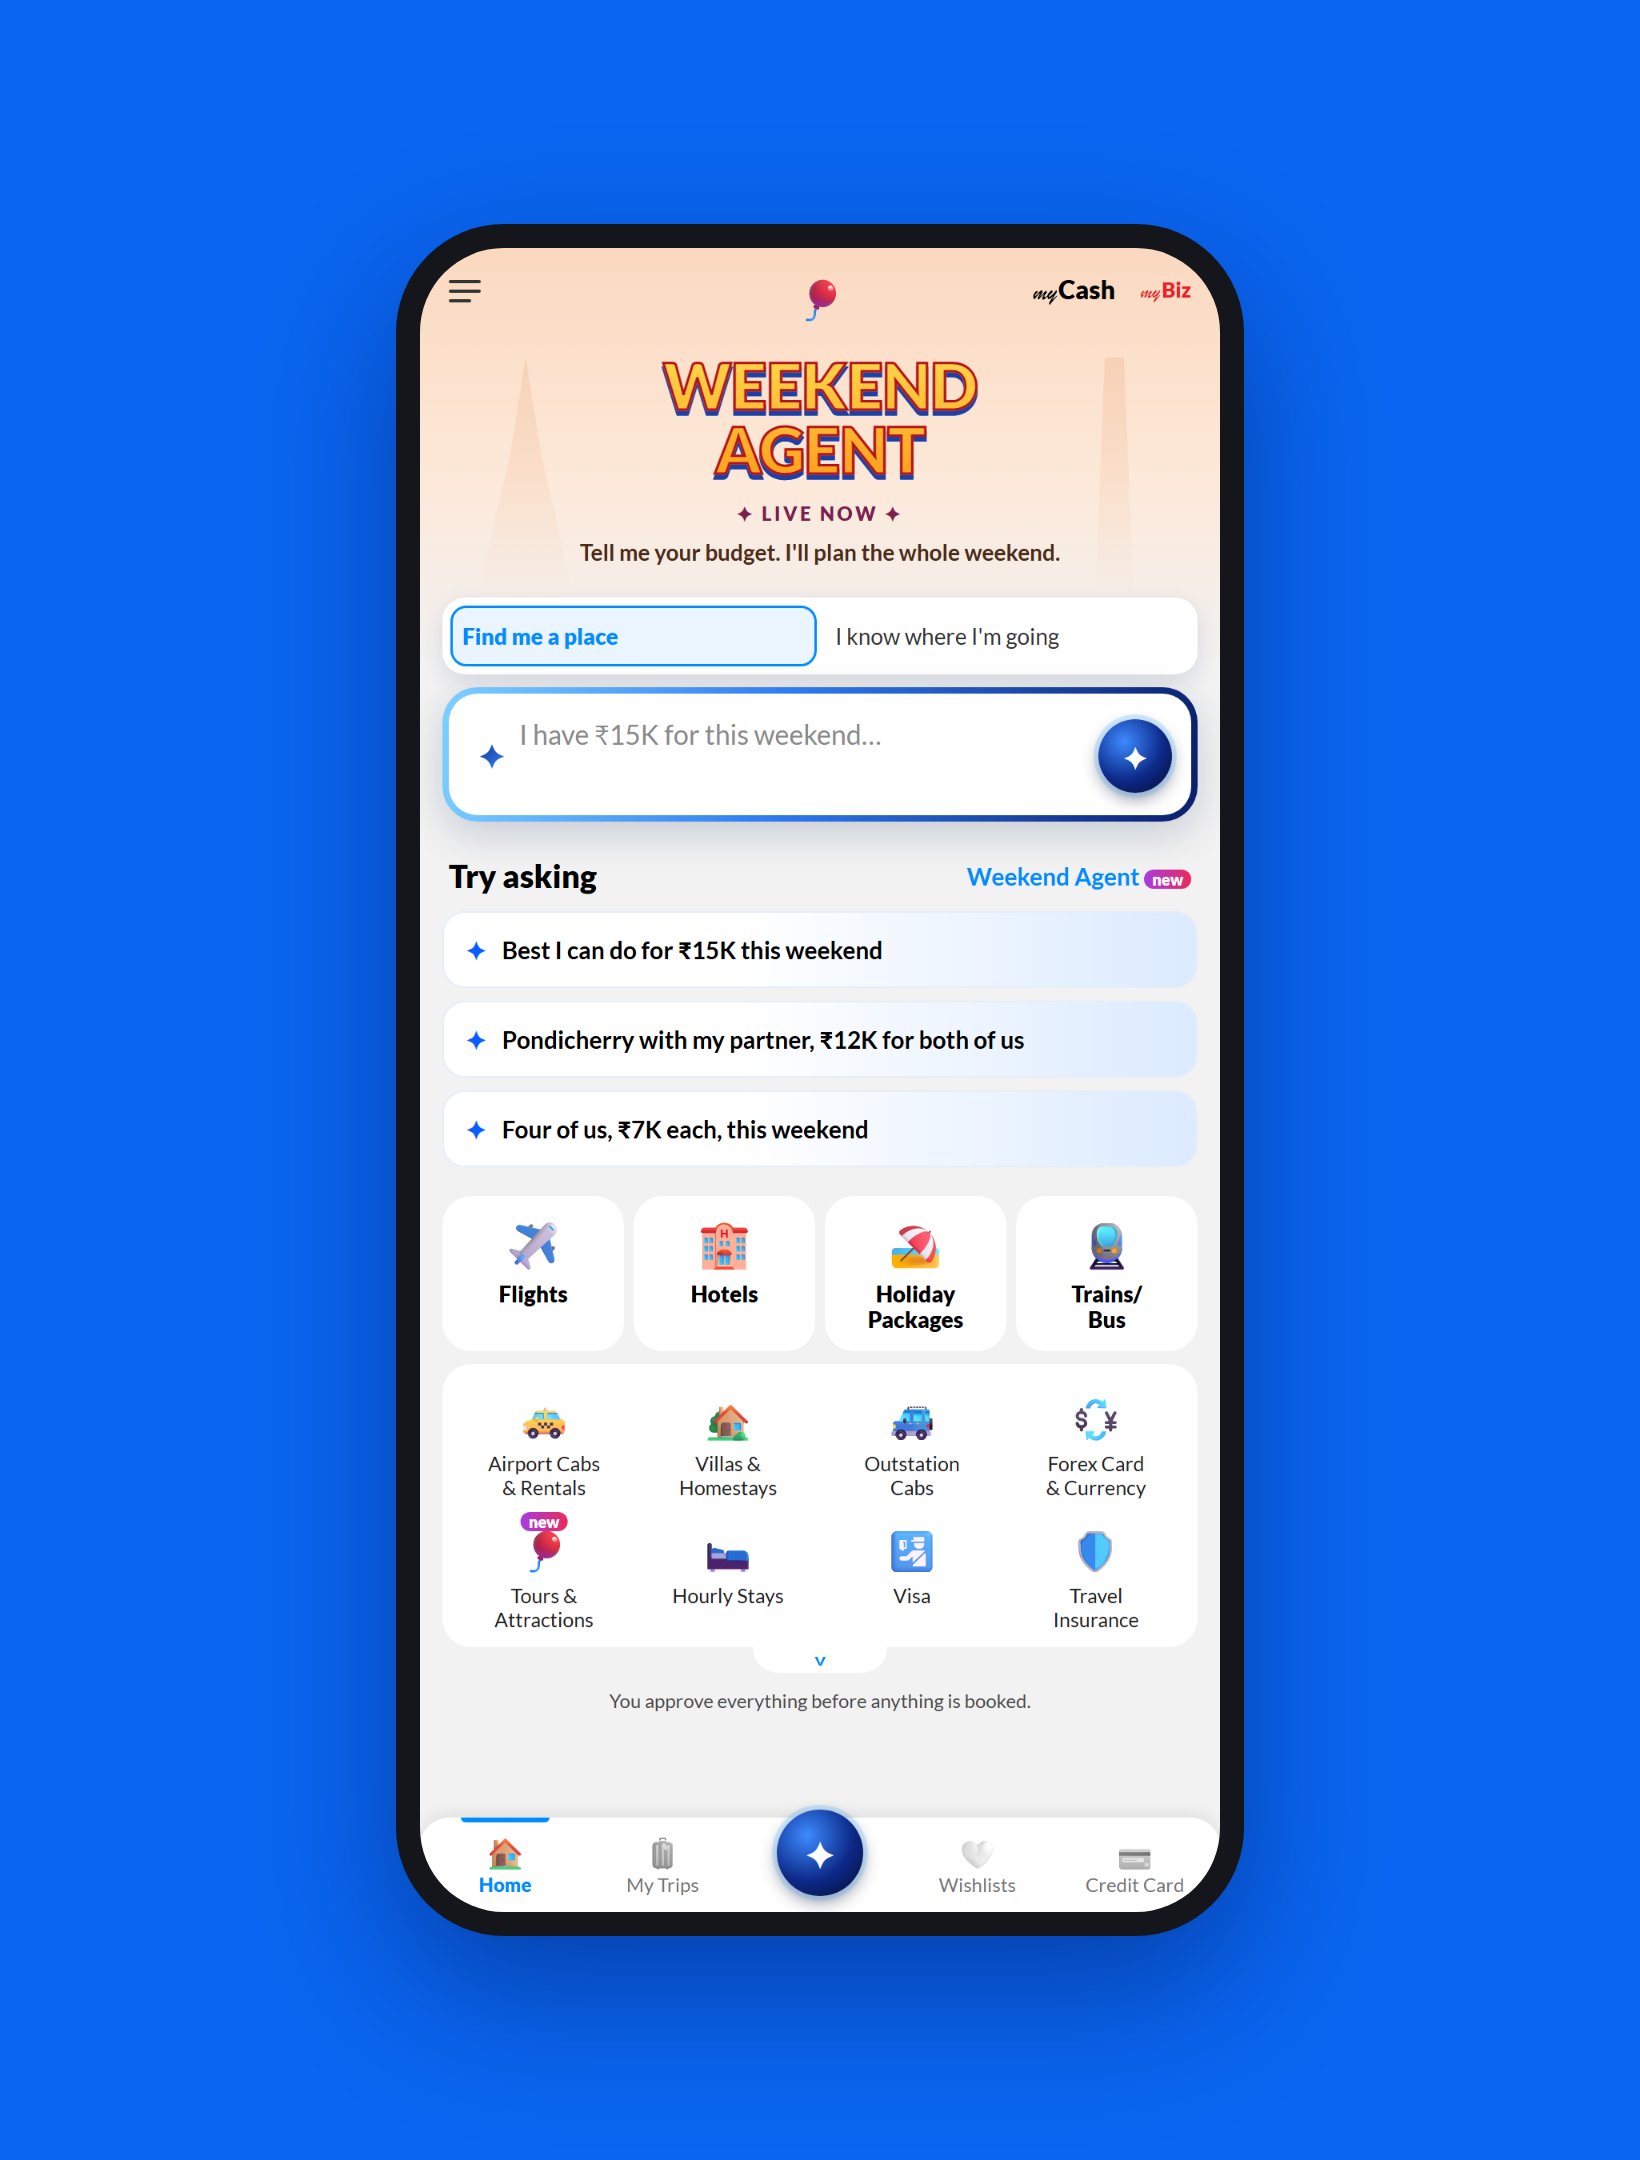
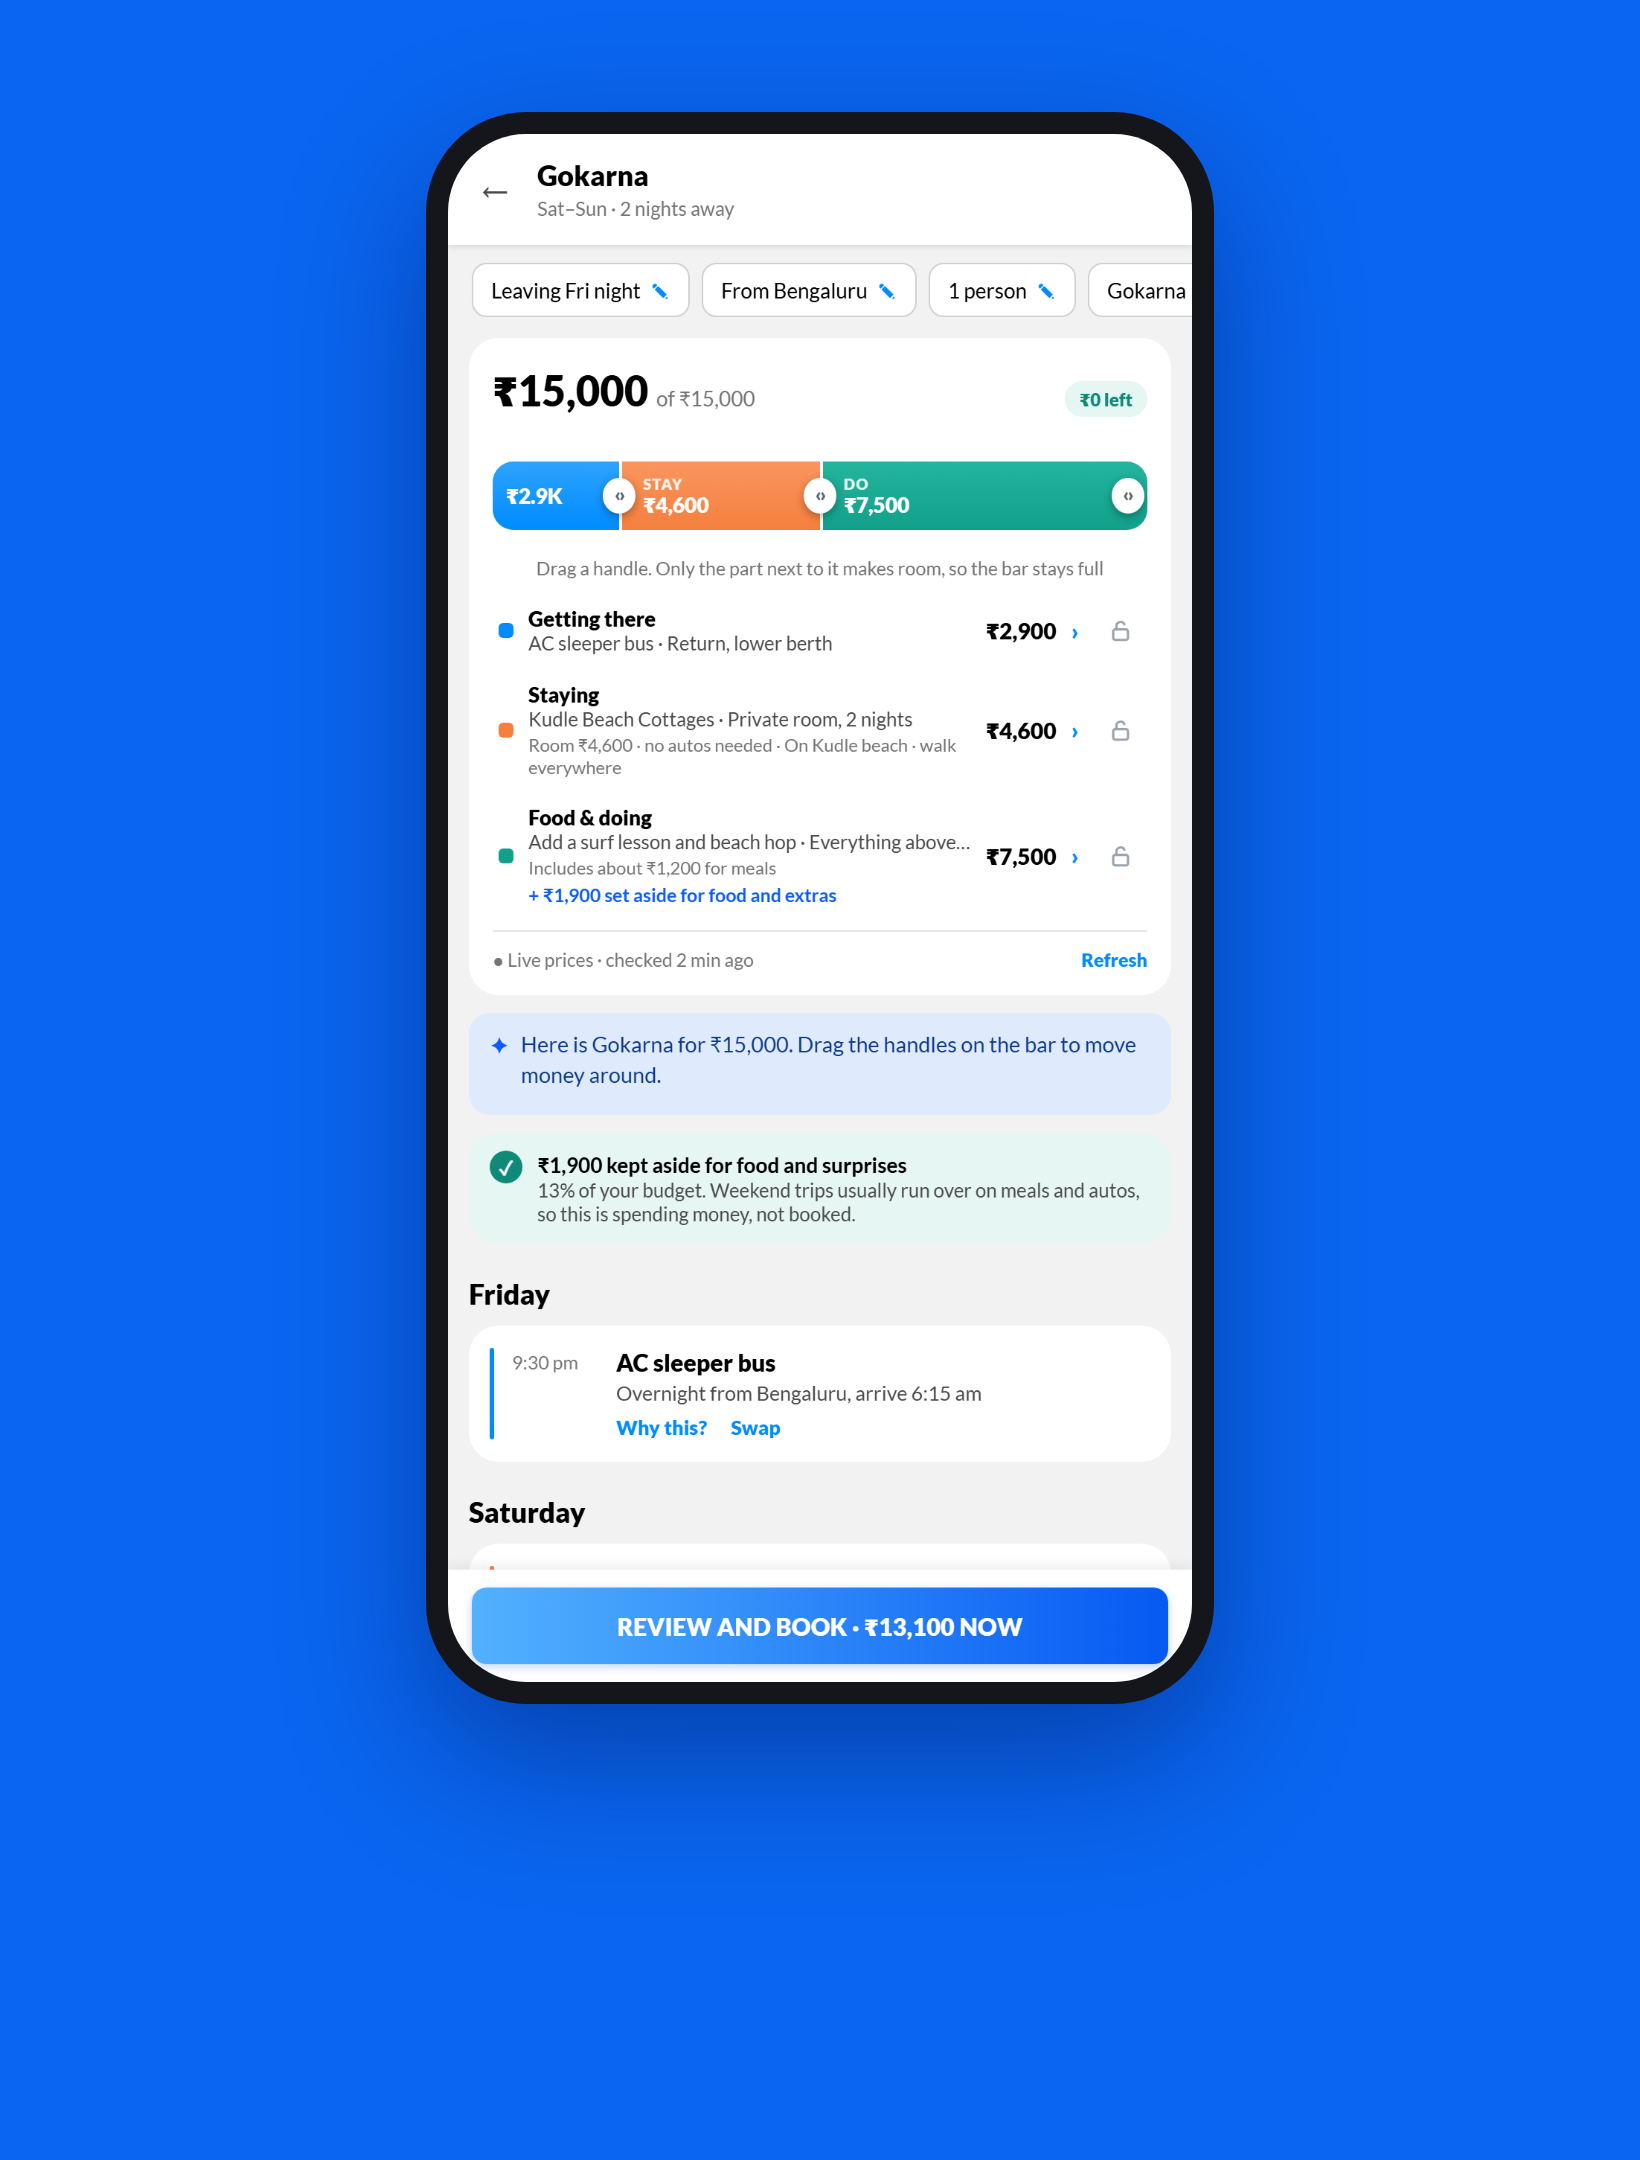
okay

Changed region(s): [[0.2177, 0.031, 0.7774, 0.9616]]

diff --git a/tour.html b/tour.html
@@ -89,7 +89,7 @@ const STEPS = [
    why:'People already plan trips here. The agent changes how you plan, not where.'},
   {ch:'Ask', h:'', sel:'.modes', t:'Two ways in',
    d:'“Find me a place” starts from a budget and lets the agent choose. “I know where I’m going” starts from a destination you already picked.',
-   why:'Two of the three people I spoke to picked the place first: Pondicherry from reels, Lonavala because it was close. The AI dry run had predicted everyone starts from a budget.', src:'research'},
+   why:'Two of the three people I spoke to picked the place first: Pondicherry from reels, Varkala because it was close. The AI dry run had predicted everyone starts from a budget.', src:'research'},
   {ch:'Ask', h:'', sel:'.aibox', t:'One sentence is enough',
    d:'Type it the way you’d say it. The agent reads the budget, the group size and the place. “₹12K for both of us” becomes ₹6,000 each.',
    why:'It plans first and asks nothing. You correct a plan instead of filling in a form.'},
@@ -98,7 +98,7 @@ const STEPS = [
    try:'Next, we tap the first one.'},
 
   {ch:'Agent works', h:'', sel:'#steps', block:'start', t:'It shows its work',
-   d:'No spinner. The agent lists what it’s checking, and what it dropped and why: “Dropped Varkala. The only return gets in at 2 am Monday.”',
+   d:'No spinner. The agent lists what it’s checking, and what it dropped and why: “Dropped Kovalam. The only return gets in at 2 am Monday.”',
    why:'Trust comes from seeing the reasoning, including the options it threw away.',
    act:(w,d,done)=>{ const b=d.querySelector('.starter'); if(b) b.click();
      const iv=setInterval(()=>{ const n=d.querySelectorAll('#steps .step').length; if(n>=7 && !d.querySelector('#steps .run')){ try{w.eval("S.view='tour'");}catch(e){} clearInterval(iv);} },80);

diff --git a/index.html b/index.html
@@ -520,7 +520,7 @@ function viewPlanning(){
     ['done',`Read your ask`,`${who} · this weekend. I'm assuming you leave from Bengaluru on Friday night.`],
     ['done','Checked buses, trains and flights','14 routes that get you there and back by Monday morning.'],
     ['done','Priced stays for 2 nights','41 places with ratings above 4.0.'],
-    ['drop','Dropped Varkala','The only return gets in at 2 am Monday.'],
+    ['drop','Dropped Kovalam','The only return gets in at 2 am Monday.'],
     ['drop','Dropped Hampi','No beach. I guessed you want one, and you can change that.'],
     ['done','Added food and getting around','Meals, plus autos from each stay: the costs people usually forget.'],
     ['done','Built complete plans','Each one totalled with taxes, food and getting around included.']
